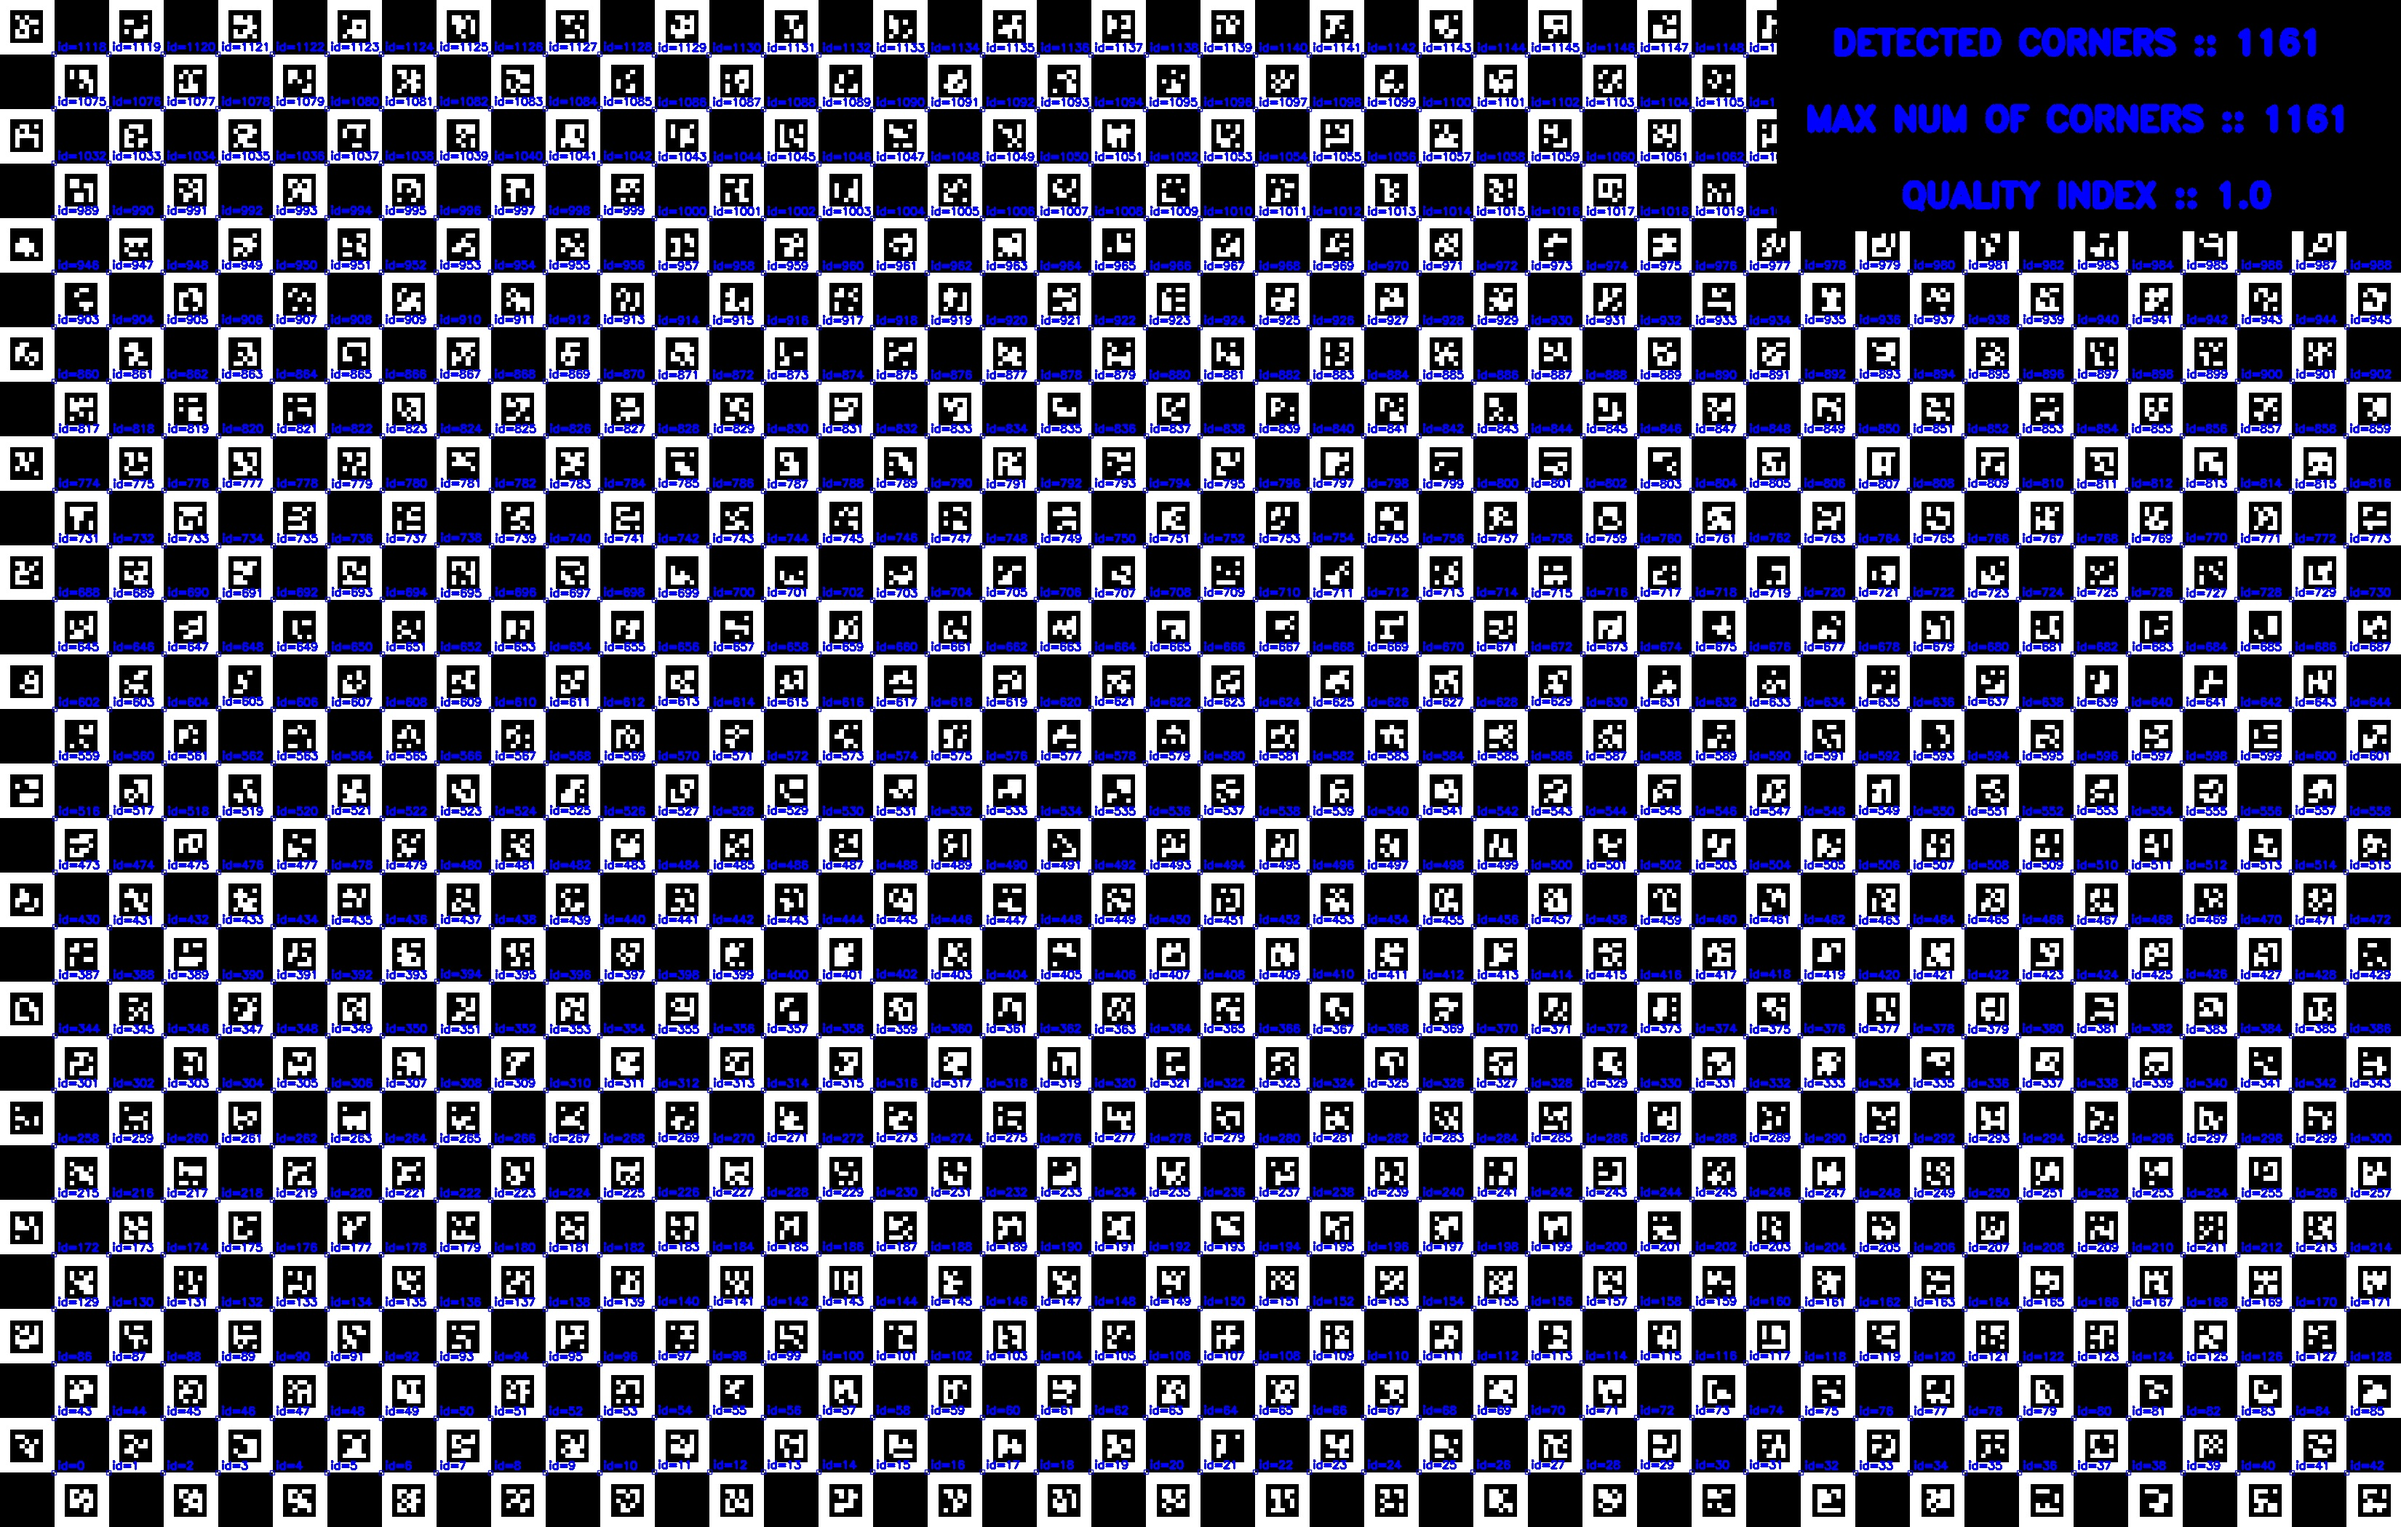
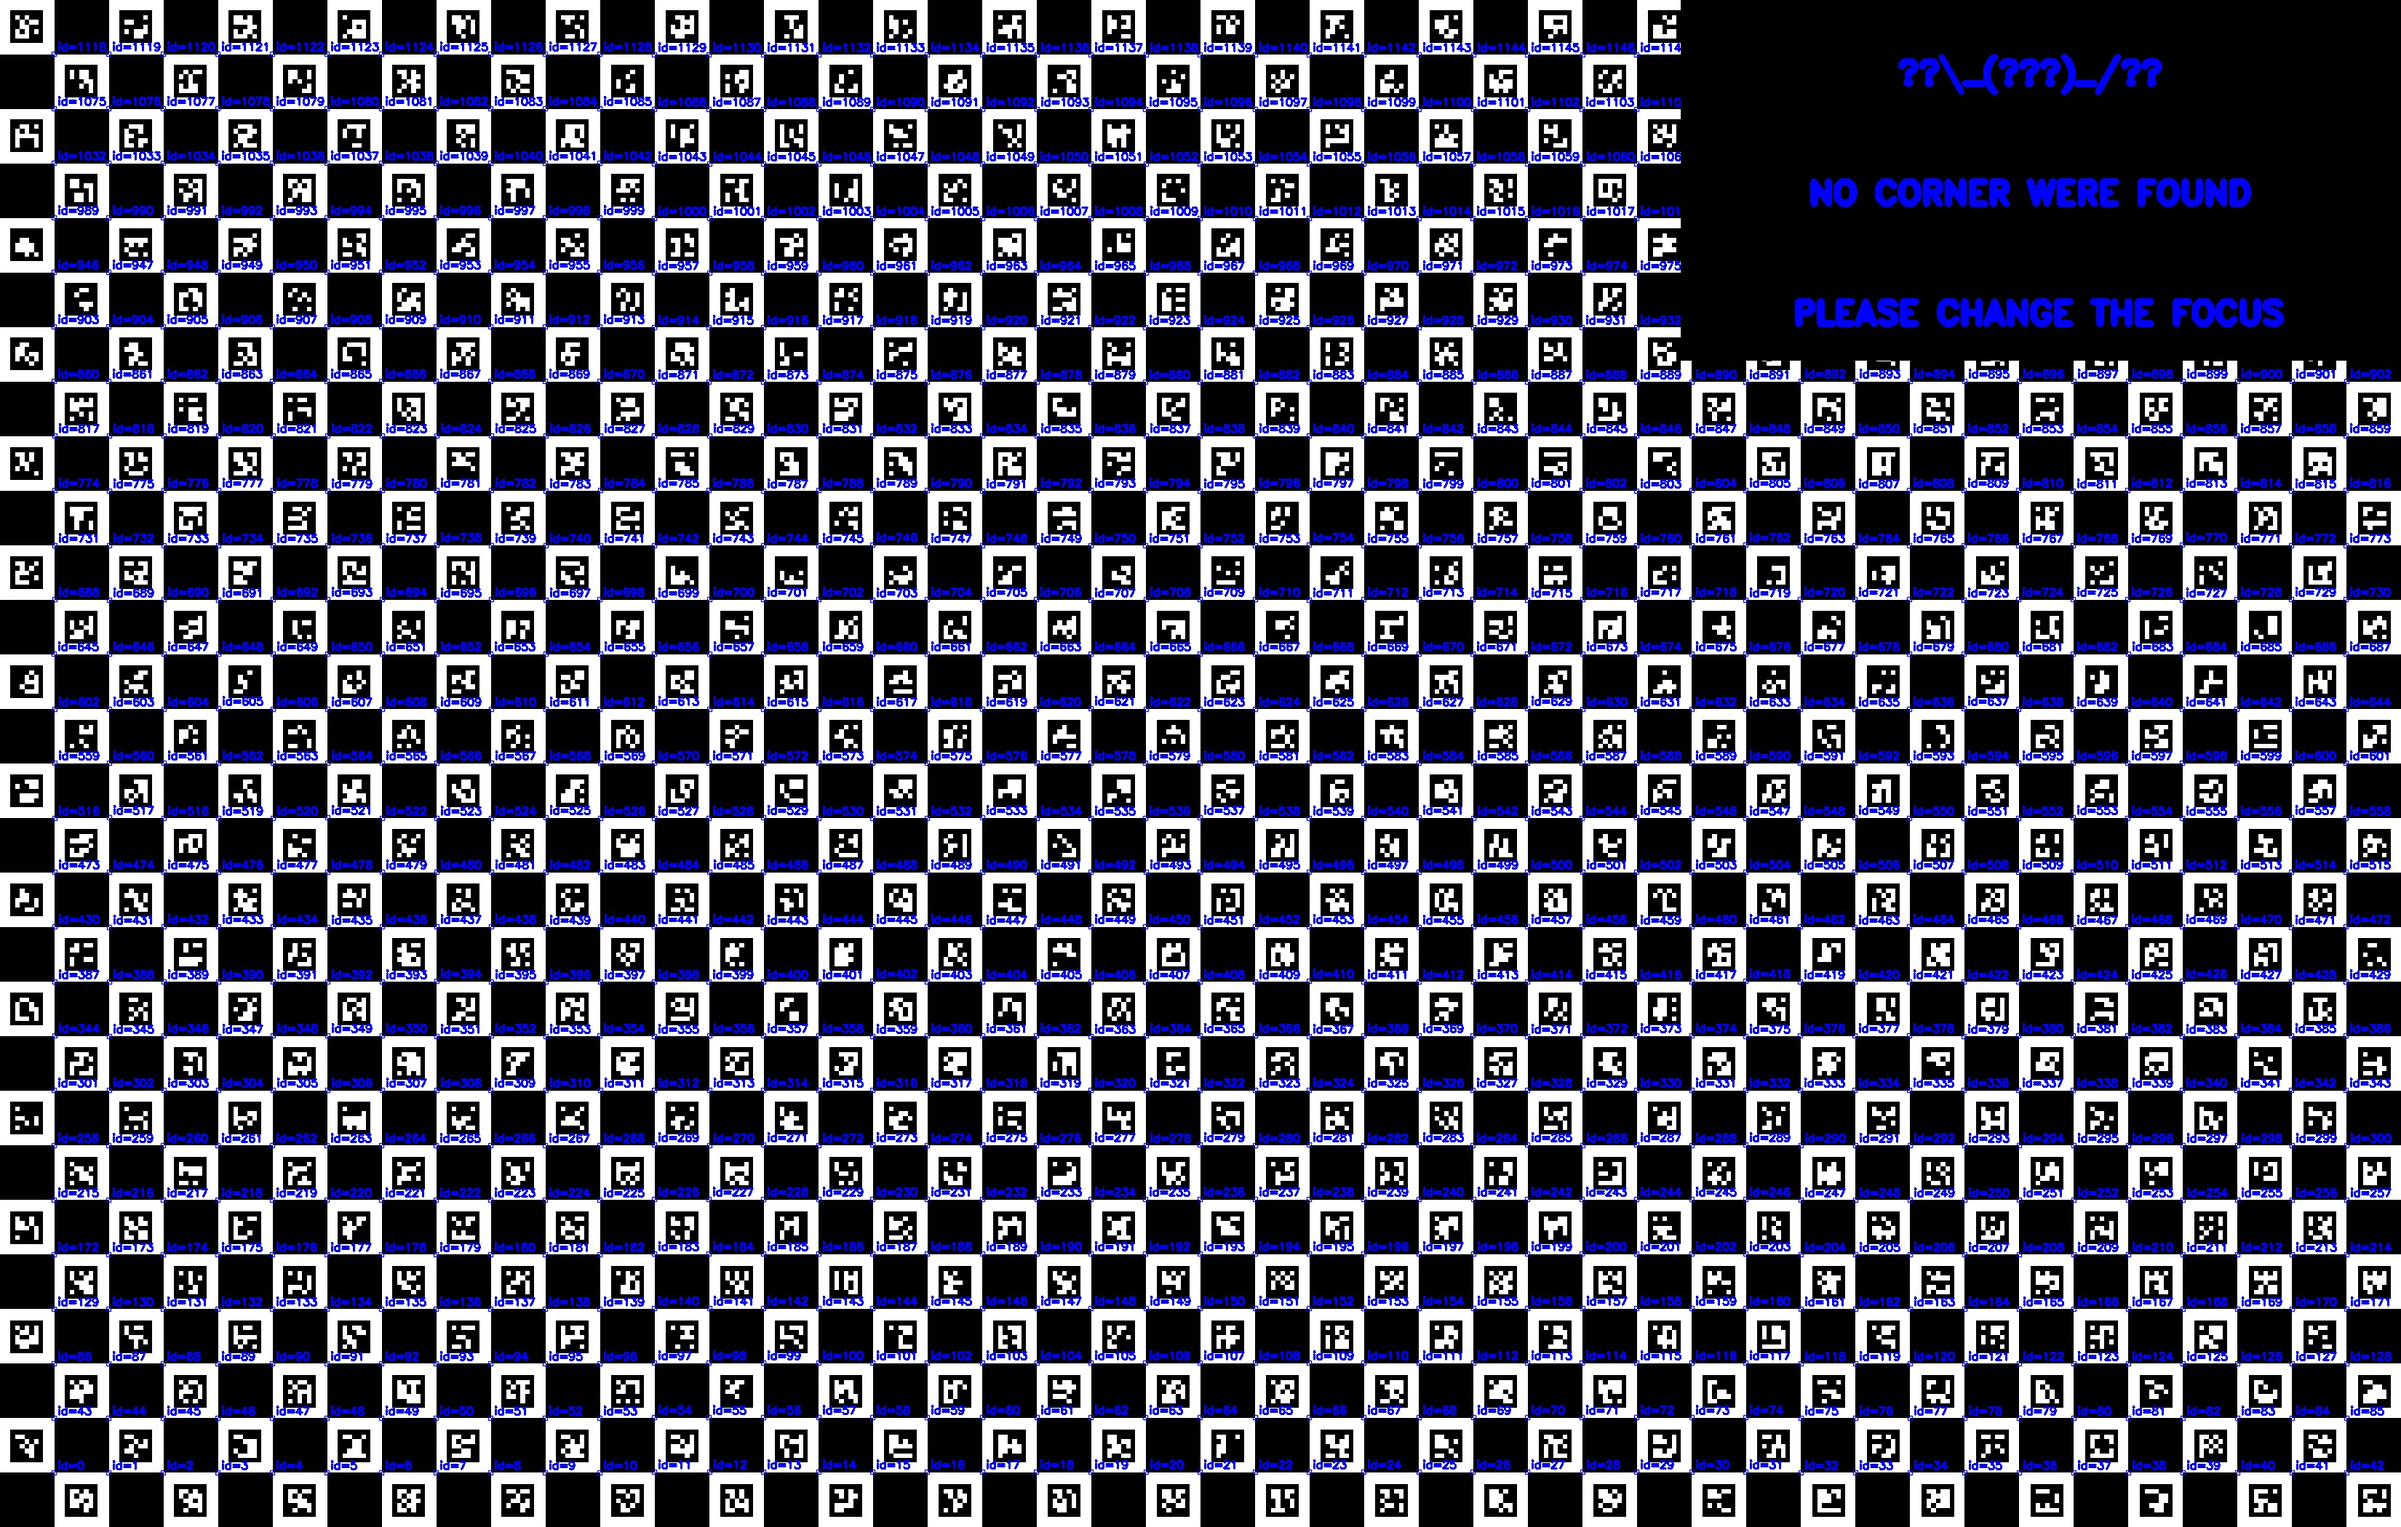
Latest working version of the stream function

Changed region(s): [[0.6867, 0.0, 1.0, 0.2476]]

diff --git a/src/geocam/streaming.py b/src/geocam/streaming.py
@@ -11,6 +11,7 @@ import cv2
 import queue
 import numpy as np
 
+from cv2 import aruco 
 from http import server
 from threading import Condition
 from geocam.utils import get_host_ip
@@ -73,8 +74,10 @@ class StreamingOutput(io.BufferedIOBase):
 original_queue = queue.Queue()
 processed_queue = queue.Queue()
 
+
 # Function to process the frame
 def process_frame():
+    relative_time = 0
     logging.debug("3. in process frame")
     frequency = 0.5
     last_process_time = time.time()
@@ -82,14 +85,18 @@ def process_frame():
         if not original_queue.empty():
             frame = original_queue.get()  # Retrieve a frame from the original queue
             current_time = time.time()
-            if current_time - last_process_time >= frequency:
+            delta_t = current_time - last_process_time
+            relative_time += delta_t
+            if delta_t >= frequency:
                 last_process_time = current_time
+                logging.debug("RELATIVE TIME IS: %s", relative_time)
                 logging.debug("5. in process frame")
                 frame = original_queue.get()  # Retrieve a frame from the original queue
                 logging.debug("6. original frame will be processed")
                 # Perform frame processing (e.g., convert to grayscale)
                 decoded_frame = cv2.imdecode(np.frombuffer(frame, dtype=np.uint8), cv2.IMREAD_COLOR) # Decode the frame
-                processed_frame = cv2.cvtColor(decoded_frame, cv2.COLOR_BGR2GRAY)
+                # processed_frame = cv2.cvtColor(decoded_frame, cv2.COLOR_BGR2GRAY)
+                processed_frame = estimate_image_quality(decoded_frame, round(relative_time, 2))
                 _, processed_frame_encoded = cv2.imencode('.jpg', processed_frame) # Encode the processed frame
                 processed_queue.put(processed_frame_encoded.tobytes())  # Put the processed frame into the processed queue
                 logging.debug("7. original was processed")
@@ -153,46 +160,134 @@ class StreamingServer(socketserver.ThreadingMixIn, server.HTTPServer):
     allow_reuse_address = True
     daemon_threads = True
 
+#############################################################################################################################################
+## PROCESS DATA FUNCTIONS ###################################################################################################################
+#############################################################################################################################################
 
-picam2 = Picamera2()
-picam2.configure(picam2.create_video_configuration(main={"size": (640, 480)}))
-output = StreamingOutput()
-picam2.start_recording(JpegEncoder(), FileOutput(output))
-logging.debug("1. just after starting")
 
-try:
-    # Start the frame processing thread
-    logging.debug("2. just before processing_thread")
-    processing_thread = threading.Thread(target=process_frame)
-    processing_thread.daemon = True
-    processing_thread.start()
-    logging.debug("4. processing_thread should have started")
+def add_quality_index_text(frame, index_text, corners_were_found) -> np.ndarray:
 
-    address = ('', 8000)
-    server = StreamingServer(address, StreamingHandler)
+    if not corners_were_found: 
+        index_text = f"PLEASE CHANGE THE FOCUS \nNO CORNER WERE FOUND \nPLEASE CHANGE THE FOCUS"
+    
+    _, image_width = frame.shape[:2]
 
-    # Start the server in a separate thread
-    server_thread = threading.Thread(target=server.serve_forever)
-    server_thread.daemon = True
-    server_thread.start()
-    print(f"streaming at http://{get_host_ip()}:8000/")
+    rectangle_width = int(image_width * 0.6)
+    rectangle_height = int(3/12 *rectangle_width)
 
-    # Wait for a keyboard interrupt to stop the server
-    print("Press Ctrl+C to stop the server.")
-    while True:
-        try:
-            time.sleep(1)
-        except KeyboardInterrupt:
-            break
+    x = image_width - rectangle_width  # Calculate the x-coordinate of the top-left corner of the rectangle
+    y = 0                              # Set the y-coordinate of the top-left corner of the rectangle
 
-except Exception as e:
-    logging.warning('Server error: %s', str(e))
+    cv2.rectangle(frame, (x, y), (x + rectangle_width, y + rectangle_height), (0, 0, 0), -1)
 
-finally:
-    logging.debug("just before closing")
-    picam2.stop_recording()
-    # Stop the frame processing thread and gracefully shutdown the server
-    processing_thread.join()
-    server.shutdown()
-    server.server_close()
+    thickness = int(10/3000 * image_width)
+    fontScale = 3/14 * thickness
+
+    # dealing with the text
+    lines = index_text.split('\n')
+    # print(lines)
+    set_line_height = int(rectangle_height/3) # Set the line height to the text height plus some additional spacing
+    # print(set_line_height)
+    y_offset = int(set_line_height*0.7) # Set the initial y-coordinate for the first line
+
+    for line in lines:
+        # print(line)
+        # print("y_offset before updated", y_offset)
+        # Calculate the size of the current line
+        (line_width, _) = cv2.getTextSize(line, fontFace=cv2.FONT_HERSHEY_DUPLEX, fontScale=fontScale, thickness=thickness)[0]
+        # print(line_width, _)
+        # Calculate the x-coordinate for centering the current line
+        x_offset = x + (rectangle_width - line_width) // 2
+        # print(x_offset)
+        # Draw the current line
+        cv2.putText(img=frame, text=line, org=(x_offset, y_offset), fontFace=cv2.FONT_HERSHEY_DUPLEX, fontScale=fontScale, color=(255, 0, 0), thickness=thickness)
+        # Update the y-coordinate for the next line
+        y_offset += set_line_height
+        # print("y_offset after updated", y_offset)
+
+    return frame
+
+def estimate_image_quality(frame, current_time) -> np.ndarray:
+    # initiated to false
+    corners_were_found = 0 
+
+    # create the board, aruco_dict could become a paramter if a different dictionnary is used
+    aruco_dict = aruco.getPredefinedDictionary(cv2.aruco.DICT_5X5_1000)
+    horizontal_number_of_squares = 44
+    vertical_number_of_squares = 28
+    charuco_board = aruco.CharucoBoard_create(horizontal_number_of_squares, vertical_number_of_squares, 5/3, 1, aruco_dict)
+
+    # compute the ma number of detectable charuco corners 
+    max_num_of_detectable_charuco_corners = (horizontal_number_of_squares - 1) * (vertical_number_of_squares - 1) 
+
+    # process: detect aruco and charuco corners 
+    image_in_gray = cv2.cvtColor(frame, cv2.COLOR_BGR2GRAY)
+    params = aruco.DetectorParameters_create()
+    corners, ids, rejectedImgPoints = aruco.detectMarkers(image_in_gray, aruco_dict, parameters = params)
+
+    if len(corners) > 0:
+        logging.info("CORNER FOUND")
+        retval, charuco_corners, charuco_ids = cv2.aruco.interpolateCornersCharuco(corners, ids, image_in_gray, charuco_board)
+        corners_were_found = 1
+        num_detected_corners = len(charuco_corners)
+        quality_index = round(num_detected_corners / max_num_of_detectable_charuco_corners, 3)
+        index_text = f"TIME :: {current_time} \nDETECTED\MAX_DETECTABLE :: {num_detected_corners}\\{max_num_of_detectable_charuco_corners} \nQUALITY INDEX :: {quality_index}"
+        
+        # post process: draw croners 
+        if retval:
+            aruco.drawDetectedCornersCharuco(image_in_gray, charuco_corners, charuco_ids)
+
+    
+    # add the quality index text
+    processed_gray_image = add_quality_index_text(image_in_gray, index_text, corners_were_found)
+
+    return processed_gray_image
+
+#############################################################################################################################################
+## MAIN #####################################################################################################################################
+#############################################################################################################################################
+
+if __name__ == "__main__":
+
+    picam2 = Picamera2()
+    picam2.configure(picam2.create_video_configuration(main={"size": (640, 480)}))
+    output = StreamingOutput()
+    picam2.start_recording(JpegEncoder(), FileOutput(output))
+    logging.debug("1. just after starting")
+
+    try:
+        # Start the frame processing thread
+        logging.debug("2. just before processing_thread")
+        processing_thread = threading.Thread(target=process_frame)
+        processing_thread.daemon = True
+        processing_thread.start()
+        logging.debug("4. processing_thread should have started")
+
+        address = ('', 8000)
+        server = StreamingServer(address, StreamingHandler)
+
+        # Start the server in a separate thread
+        server_thread = threading.Thread(target=server.serve_forever)
+        server_thread.daemon = True
+        server_thread.start()
+        print(f"streaming at http://{get_host_ip()}:8000/")
+
+        # Wait for a keyboard interrupt to stop the server
+        print("Press Ctrl+C to stop the server.")
+        while True:
+            try:
+                time.sleep(1)
+            except KeyboardInterrupt:
+                break
+
+    except Exception as e:
+        logging.warning('Server error: %s', str(e))
+
+    finally:
+        logging.debug("just before closing")
+        picam2.stop_recording()
+        # Stop the frame processing thread and gracefully shutdown the server
+        processing_thread.join()
+        server.shutdown()
+        server.server_close()
 

diff --git a/src/geocam/test.py b/src/geocam/test.py
@@ -1,4 +1,5 @@
 from pathlib import Path
 directory = Path(__file__).absolute()
 newname = directory.name.rsplit(".", 1)[0]
-print(newname)
+index_text = f"¯\\_(ツ)_/¯ \nNO CORNER WERE FOUND \nPLEASE CHANGE THE FOCUS"
+print(index_text)

diff --git a/src/geocam/estimate_quality_function.py b/src/geocam/estimate_quality_function.py
@@ -116,5 +116,5 @@ if __name__ == "__main__":
     image2 = r"..\images\curved.jpg"
     image3 = r"..\images\relatively_flat.jpg"
     
-    estimate_image_quality(image3)
+    estimate_image_quality(image1)
 
